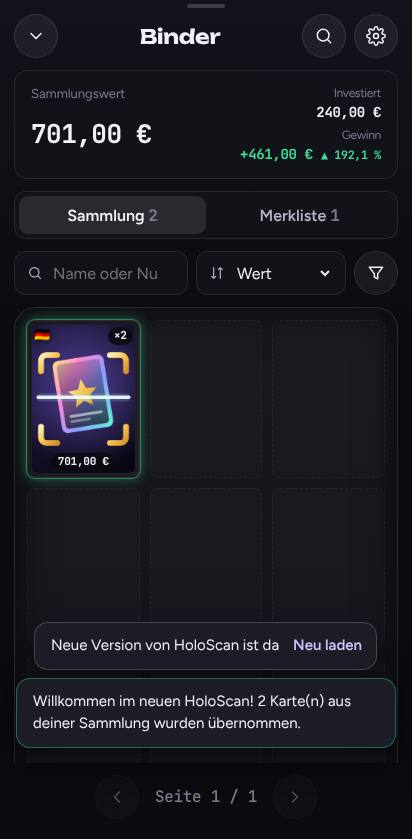
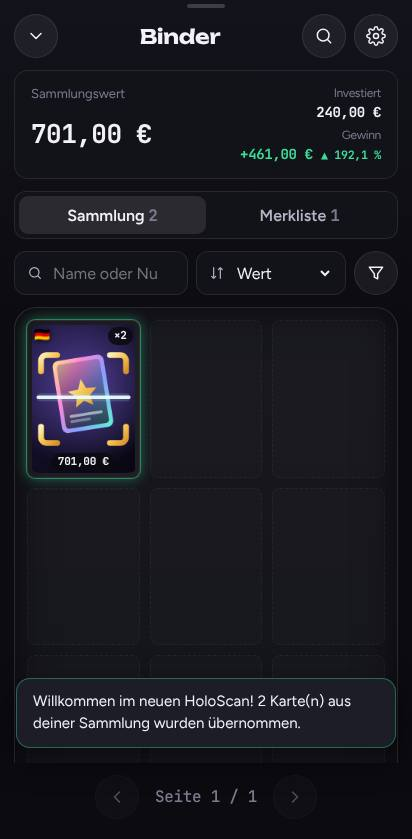
M2–M5 fertig: Kalibrierung, Tests, Feinschliff, Fortschrittsbericht
- Zweiter Kalibrierlauf: 0 falsch-sichere Treffer; sichere Treffer
  Einzelkarte 72 %, Binderseite 61 %, verstreut 56 %; 0 Fehlalarme;
  Einzelkarte 2,8 s.
- Browser-Tests: Galerie-Scan mit echter Erkennung (Einzelkarte und
  Binderseite), Live-Kamera mit Test-Kamera. Kartenbilder lädt Node,
  weil TCGdex bei manchen Bildern den CORS-Header doppelt schickt.
- Stapel-Vorschau sofort sichtbar, Abstand zur Binder-Beschriftung.
- docs/PROGRESS.md mit Kalibrierung, Grenzen und Freigabe-Schritten.

Claude-Session: https://claude.ai/code/session_01K4Q25ryp5Dj6uwD6p2Eg9J

Changed region(s): [[0.1165, 0.7437, 0.6699, 0.7747], [0.699, 0.7437, 0.8738, 0.7747]]

diff --git a/e2e/gallery.spec.ts b/e2e/gallery.spec.ts
@@ -8,8 +8,21 @@ import { shot } from './helpers';
 const root = join(import.meta.dirname, '..');
 test.setTimeout(180_000);
 
-/** Foto im Browser erzeugen: Karte leicht gedreht auf unruhigem Grund. */
-async function makePhoto(page: import('@playwright/test').Page, cards: Array<{ url: string; x: number; y: number; w: number; angle: number }>, size: [number, number]) {
+/**
+ * Foto im Browser erzeugen: Karten auf unruhigem Grund. Die Kartenbilder lädt Node (nicht der Browser),
+ * weil TCGdex bei manchen Bildern den CORS-Header doppelt schickt – für die App egal (sie zeigt Bilder nur an).
+ */
+async function makePhoto(
+  page: import('@playwright/test').Page,
+  request: import('@playwright/test').APIRequestContext,
+  cards: Array<{ url: string; x: number; y: number; w: number; angle: number }>,
+  size: [number, number],
+) {
+  const withData = [];
+  for (const c of cards) {
+    const res = await request.get(c.url);
+    withData.push({ ...c, b64: (await res.body()).toString('base64') });
+  }
   const b64 = await page.evaluate(
     async ({ cards, size }) => {
       const c = document.createElement('canvas');
@@ -21,10 +34,8 @@ async function makePhoto(page: import('@playwright/test').Page, cards: Array<{ u
       ctx.fillStyle = g;
       ctx.fillRect(0, 0, c.width, c.height);
       for (const k of cards) {
-        const img = new Image();
-        img.crossOrigin = 'anonymous';
-        img.src = k.url;
-        await img.decode();
+        const bytes = Uint8Array.from(atob(k.b64), (ch) => ch.charCodeAt(0));
+        const img = await createImageBitmap(new Blob([bytes], { type: 'image/webp' }));
         const h = (k.w * 88) / 63;
         ctx.save();
         ctx.translate(k.x, k.y);
@@ -34,7 +45,7 @@ async function makePhoto(page: import('@playwright/test').Page, cards: Array<{ u
       }
       return c.toDataURL('image/jpeg', 0.88).split(',')[1];
     },
-    { cards, size },
+    { cards: withData, size },
   );
   return Buffer.from(b64, 'base64');
 }
@@ -43,9 +54,9 @@ test.beforeEach(async ({ request }) => {
   await request.get(`/__roots?set=${encodeURIComponent(join(root, 'dist'))}`);
 });
 
-test('Galerie: Foto erkennen, Stapel sortieren, in die Sammlung', async ({ page }) => {
+test('Galerie: Foto erkennen, Stapel sortieren, in die Sammlung', async ({ page, request }) => {
   await page.goto('./');
-  const photo = await makePhoto(page, [{ url: 'https://assets.tcgdex.net/en/swsh/swsh3/136/high.webp', x: 540, y: 720, w: 760, angle: 3 }], [1080, 1440]);
+  const photo = await makePhoto(page, request, [{ url: 'https://assets.tcgdex.net/en/swsh/swsh3/136/high.webp', x: 540, y: 720, w: 760, angle: 3 }], [1080, 1440]);
   await page.locator('input[type=file][multiple]').setInputFiles({ name: 'karte.jpg', mimeType: 'image/jpeg', buffer: photo });
   // Stapel bekommt eine Karte
   await expect(page.locator('.stack-count')).toHaveText('1', { timeout: 150_000 });
@@ -63,12 +74,12 @@ test('Galerie: Foto erkennen, Stapel sortieren, in die Sammlung', async ({ page 
   await expect(page.locator('.pocket:not(.pocket-empty)')).toHaveCount(1);
 });
 
-test('Galerie: Binderseite mit mehreren Karten', async ({ page }) => {
+test('Galerie: Binderseite mit mehreren Karten', async ({ page, request }) => {
   await page.goto('./');
   const urls = ['swsh3/136', 'swsh3/50', 'swsh3/19', 'swsh4/25'].map((p) => `https://assets.tcgdex.net/en/swsh/${p}/high.webp`);
   const w = 300;
   const cards = urls.map((url, i) => ({ url, x: 220 + (i % 2) * (w + 40), y: 260 + Math.floor(i / 2) * ((w * 88) / 63 + 40), w, angle: 0 }));
-  const photo = await makePhoto(page, cards, [880, 1100]);
+  const photo = await makePhoto(page, request, cards, [880, 1100]);
   await page.locator('input[type=file][multiple]').setInputFiles({ name: 'seite.jpg', mimeType: 'image/jpeg', buffer: photo });
   await expect(page.locator('.stack-count')).toHaveText('4', { timeout: 170_000 });
 });

diff --git a/src/ui/stack/Stack.tsx b/src/ui/stack/Stack.tsx
@@ -19,7 +19,7 @@ function Mini({ e, i, n }: { e: StackEntry; i: number; n: number }) {
       transition={{ type: 'spring', stiffness: 260, damping: 22 }}
       style={{ zIndex: 10 - k }}
     >
-      <FallbackImg sources={[...thumbs, photo].filter((x): x is string => !!x)} alt={e.best?.name || 'Karte'} />
+      <FallbackImg sources={[...thumbs, photo].filter((x): x is string => !!x)} alt={e.best?.name || 'Karte'} eager />
       {e.status !== 'sure' && <span className="stack-ask" aria-hidden>?</span>}
     </motion.div>
   );

diff --git a/src/styles/app.css b/src/styles/app.css
@@ -937,12 +937,12 @@
 .scanner-center {
   display: grid;
   justify-items: center;
-  gap: 2px;
+  gap: 6px;
 }
 .stack {
   position: relative;
   width: 74px;
-  height: 92px;
+  height: 84px;
   display: grid;
   place-items: end center;
 }

diff --git a/docs/PROGRESS.md b/docs/PROGRESS.md
@@ -91,21 +91,87 @@ Kartenbilder sind in den Tests Platzhalter, weil die TCGdex-Antworten aus festen
 - App-Bundle: 175 KB gzip (Budget laut Spec: 400 KB)
 - Vorab-Cache: 0,95 MB
 
-## Freigabe
-**Noch nicht veröffentlichen.** Der Branch ersetzt die alte App komplett, und die alte App hat einen funktionierenden Kamera-Scanner. Würde M1 jetzt live gehen, könnten die Nutzer vorübergehend nicht mehr scannen. Vorschlag: zuerst M2 (Galerie-Scan) und M3 (Live-Scan) umsetzen, dann alles zusammen als großes Update veröffentlichen.
+## M2 Galerie-Scan, M3 Live-Scan, M4 Fallbacks, M5 Feinschliff – erledigt (13.10.2026)
 
-## Nächste Schritte
-- **M2 Galerie-Scan**:
-  - Erkennung aus `legacy/js/vision.js`, `ocr.js` und `recognize.js` nach TypeScript in einen Web Worker übertragen
-  - Stapel mit Triage: rechts = Sammlung, links = verwerfen, oben = korrigieren
-  - Kalibrier-Testset aus echten Fotos
-- **M3 Live-Scan**:
-  - automatisches Auslösen bei ruhigem und scharfem Bild
-  - mehrere Karten pro Bild
-  - Doppel-Schutz und Haptik
-- **M4**: Gemini-Fallback mit Modell-Kette und Limit-Anzeige
-- **M5**: Feinschliff
+### Erkennung
+Neu in `src/scan/`. Das Finden der Karten im Bild und die Bildsuche laufen in einem Web Worker, die Oberfläche bleibt flüssig.
+
+- **Mehrere Karten pro Bild** (bis 9):
+  - Flächen im Kantenbild werden auf das Kartenformat geprüft.
+  - Eine Binderseite wird in ein Raster geteilt.
+  - Ob eine Teilung stimmt, prüft die Bildsuche gegen. Füllt eine Karte das ganze Bild, greift die Kantensuche der ersten Version.
+- **Bildsuche** mit dem bestehenden DINOv2-Modell:
+  - engere Ausschnitte für Toploader, notfalls um 180° gedreht
+  - Gegenstände ohne Ähnlichkeit zu einer Karte werden verworfen
+- **Texterkennung nur bei Bedarf**, etwa bei Nachdrucken mit gleichem Motiv oder wenn die Sprache am Bild unklar ist.
+- **„Sicher“ oder „nachfragen“:** Ist die Erkennung unsicher, bietet die App höchstens 3 Vorschläge oder die Suche an.
+- **KI-Leser (M4):**
+  - Gemini mit eigenem Schlüssel
+  - Modell-Kette aus der Modell-Liste der API, keine fest eingebauten Namen
+  - Tageszähler je Modell mit Neustart nach pazifischer Zeit, änderbare Limits, bei 429 das nächste Modell
+  - Ein Ergebnis zählt nur, wenn Set und Nummer im Katalog passen.
+  - Ein bestehender OpenRouter-Schlüssel funktioniert weiter.
+
+### Kalibrierung
+Gemessen mit `scripts/calib/` an künstlichen Handyfotos aus 120 echten Karten: Schräglage, Spiegelung, Hülle, Finger, Unschärfe, Binderseiten, verstreute Karten; 3 Schwierigkeitsstufen.
+
+| Art | Karten | gefunden | sicher | davon falsch | nachfragen | Ø Zeit je Bild |
+|---|---|---|---|---|---|---|
+| Einzelkarte | 72 | 100 % | 72 % | **0** | 28 % | 2,8 s |
+| Binderseite (9 Karten) | 27 | 85 % | 61 % | **0** | 39 % | 26 s |
+| verstreute Karten | 17 | 53 % | 56 % | **0** | 44 % | 4,9 s |
+
+Ziel der Spec erreicht: **null falsch-sichere Treffer.** Gegenüber dem ersten Lauf ist die Quote der sicheren Treffer höher (Einzelkarte 57 % → 72 %), die Fehlalarme sind von 19 auf 0 gesunken und die Zeit pro Einzelkarte von 4,2 auf 2,8 s.
+
+Grenzen:
+- Karten müssen ganz im Bild liegen und dürfen sich nicht überlappen.
+- Die Schwellen sollten mit echten Fotos nachkalibriert werden.
+
+### Galerie, Stapel, Triage (M2)
+- Beliebig viele Fotos auf einmal. Die Warteschlange und der Stapel überstehen einen Neustart der App.
+- Fortschritt als Ring am Stapel.
+- **Triage:**
+  - rechts = Sammlung, danach nur die Kaufpreis-Frage
+  - links = verwerfen
+  - oben = korrigieren: andere Karte, Sprache oder Variante
+  - Jede Geste hat auch einen Knopf; Rückgängig steht 5 Sekunden bereit.
+- Ohne Kartenbild in der Datenbank wird das eigene Foto gespeichert.
+- Offline lässt sich eine Karte in die Sammlung legen; der Preis folgt, sobald wieder Netz da ist.
+
+### Live-Scan (M3)
+- Rückkamera mit 1080p. Etwa 8 Vorschaubilder pro Sekunde, die Karten werden umrandet.
+- **Auslösen** nach 5 ruhigen Bildern (unter 6 px Bewegung bei 720p) und ausreichender Schärfe. Zusätzlich gibt es einen Auslöse-Knopf.
+- **Doppel-Schutz:**
+  - Dieselbe Karte, die im Bild bleibt, wird nicht erneut erkannt.
+  - Kommt eine gleiche Karte dazu, fragt die App: „Nochmal hinzufügen?“
+- Die erkannten Karten fliegen aus dem Livebild auf den Stapel, mit Haptik.
+- Taschenlampe; Hinweis „leicht kippen“ bei Spiegelung.
+- Die Kamera ist aus, solange Binder, Karte, Triage oder Einstellungen offen sind oder die App im Hintergrund läuft.
+- Der frühere Fehler, bei dem die Kamera doppelt geöffnet wurde und die LED anblieb, ist behoben.
+
+### Feinschliff (M5)
+- Knopf „App installieren“ in den Einstellungen, Hinweis für iOS.
+- Der Fokus bleibt in Blättern (Tab läuft im Kreis), Escape schließt sie.
+- Sammel-Sprachen steuern die vorgeladenen Indexe und die Suchsprachen.
+- Eine Fehlergrenze je Bereich verhindert, dass ein Fehler die ganze App leert.
+
+### Tests
+- `npm test`: 36 Unit-Tests. Neu sind Kartensuche (einzeln, verstreut, Binderseite gerade/schräg, leerer Grund), Auslöse-Logik und Doppel-Schutz sowie der KI-Client (Tageswechsel, Modell-Kette).
+- `npm run e2e`: 7 Browser-Tests. Neu sind der Galerie-Scan mit **echter Erkennung** (Einzelkarte und Binderseite) und die Live-Kamera mit Chromes Test-Kamera: Sie startet, erfindet keine Karte und schaltet sich ab, wenn der Binder offen ist.
+
+| | |
+|---|---|
+| ![Stapel](screenshots/10-stapel.jpg) | ![Triage](screenshots/11-triage.jpg) |
+
+## Freigabe
+Der neue Stand hat jetzt einen eigenen Scanner und ersetzt die alte App vollständig. Für die Veröffentlichung muss dieser Branch in den Standard-Branch `ccr-a44fa02f-ylk895` gemergt werden. Danach baut und veröffentlicht der Workflow automatisch. Beim nächsten Öffnen übernimmt die App die Sammlungen der Nutzer.
+
+Vor dem Mergen empfohlen:
+1. Einmal am eigenen Handy testen, und zwar mit der Vorschau des Branches oder lokal per `npm run build && npx vite preview --host`.
+2. Den OpenRouter-Schlüssel im GitHub-Secret `OPENROUTER_KEY` widerrufen und das Secret löschen. Er wird nicht mehr gebraucht.
 
 ## Offene Punkte
-- Nutzungsbedingungen des Cardmarket-Preis-Guides vor einer breiteren Veröffentlichung klären (siehe `FINDINGS.md`).
-- Der eingebaute OpenRouter-Schlüssel ist entfernt. Der Schlüssel im GitHub-Secret `OPENROUTER_KEY` war öffentlich lesbar und sollte bei OpenRouter **widerrufen** werden.
+- Schwellen mit echten Fotos nachkalibrieren. Dafür eigene Fotos nach `.cache/calib/scenes/` legen und in `truth.json` eintragen.
+- Nutzungsbedingungen des Cardmarket-Preis-Guides klären (siehe `FINDINGS.md`).
+- Englische Oberfläche ist vorbereitet, aber noch nicht umgesetzt.
+- Binderseiten mit 9 Karten brauchen etwa 25 s. Schneller ginge es mit mehreren Threads, das erlaubt GitHub Pages aber nicht (COOP/COEP).
